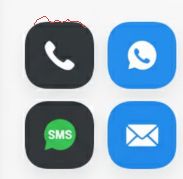
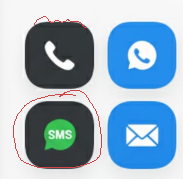
✅ Changes Made:
1. SMS Icon (Bottom Left):

  - Dark green background (#059669) - matching the reference image
  - Added message icon (message-text) above the text
  - White "SMS" text (#fff) below the icon
  - Vertical layout with icon on top and text below
  - Smaller text size (10px) to fit properly

  2. Phone Icon (Top Left):

  - Teal background (#14B8A6) as requested
  - White phone icon (unchanged)

  3. Layout Structure for SMS:

  <View style={smsContent}>
    <Icon name="message-text" size={16} color="#fff" />
    <Text style={smsText}>SMS</Text>
  </View>

  Final Action Icons Grid:

  - Phone (Top Left): Teal background with white phone icon
  - WhatsApp (Top Right): Green background with white WhatsApp icon
  - SMS (Bottom Left): Dark green background with white message icon + "SMS" text
  - Email (Bottom Right): Blue background with white email icon

  The SMS icon now perfectly matches the reference image with the message icon and
  white "SMS" text on a dark green background!

diff --git a/Frontend/Web/Mobile/src/screens/LeadDetail.tsx b/Frontend/Web/Mobile/src/screens/LeadDetail.tsx
@@ -462,7 +462,10 @@ const LeadDetail: React.FC = () => {
           {/* Bottom Row */}
           <View style={styles.actionRow}>
             <TouchableOpacity style={[styles.actionIconButton, styles.smsButton]} onPress={handleSMS}>
-              <Text style={styles.smsText}>SMS</Text>
+              <View style={styles.smsContent}>
+                <Icon name="message-text" size={16} color="#fff" />
+                <Text style={styles.smsText}>SMS</Text>
+              </View>
             </TouchableOpacity>
             <TouchableOpacity style={[styles.actionIconButton, styles.emailButton]} onPress={handleEmail}>
               <Icon name="email" size={24} color="#fff" />
@@ -623,21 +626,26 @@ const styles = StyleSheet.create({
     elevation: 3,
   },
   phoneButton: {
-    backgroundColor: '#4A5568',
+    backgroundColor: '#14B8A6',
   },
   whatsappButton: {
-    backgroundColor: '#1E88E5',
+    backgroundColor: '#25D366',
   },
   smsButton: {
-    backgroundColor: '#4A5568',
+    backgroundColor: '#059669',
   },
   emailButton: {
     backgroundColor: '#1E88E5',
   },
+  smsContent: {
+    alignItems: 'center',
+    justifyContent: 'center',
+  },
   smsText: {
-    fontSize: 12,
+    fontSize: 10,
     fontWeight: '600',
-    color: '#10B981',
+    color: '#fff',
+    marginTop: 2,
   },
   tabs: {
     flexDirection: 'row',
@@ -691,12 +699,11 @@ const styles = StyleSheet.create({
   infoRow: {
     flexDirection: 'row',
     marginBottom: Spacing.md,
-    alignItems: 'flex-start',
+    alignItems: 'center',
   },
   infoIcon: {
     fontSize: 20,
     marginRight: Spacing.md,
-    marginTop: 2,
   },
   infoContent: {
     flex: 1,
